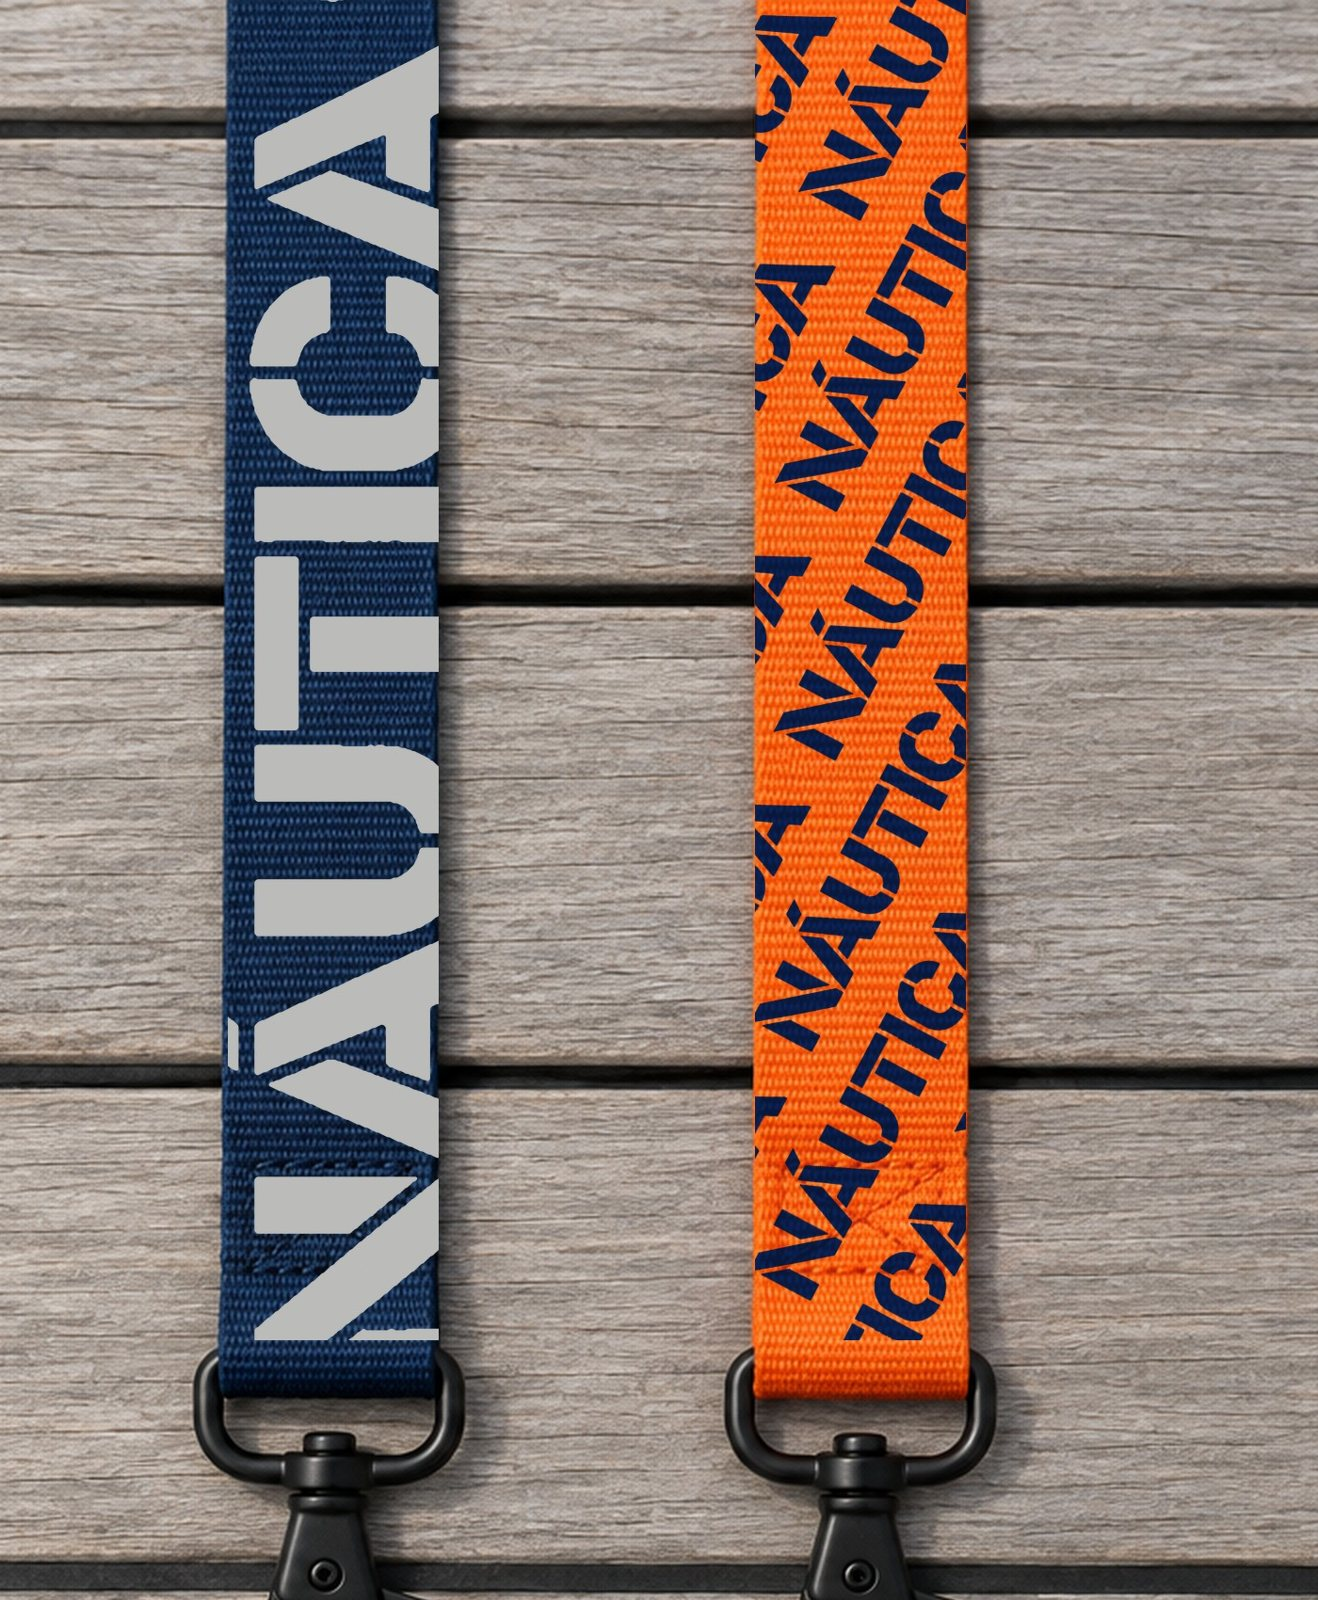
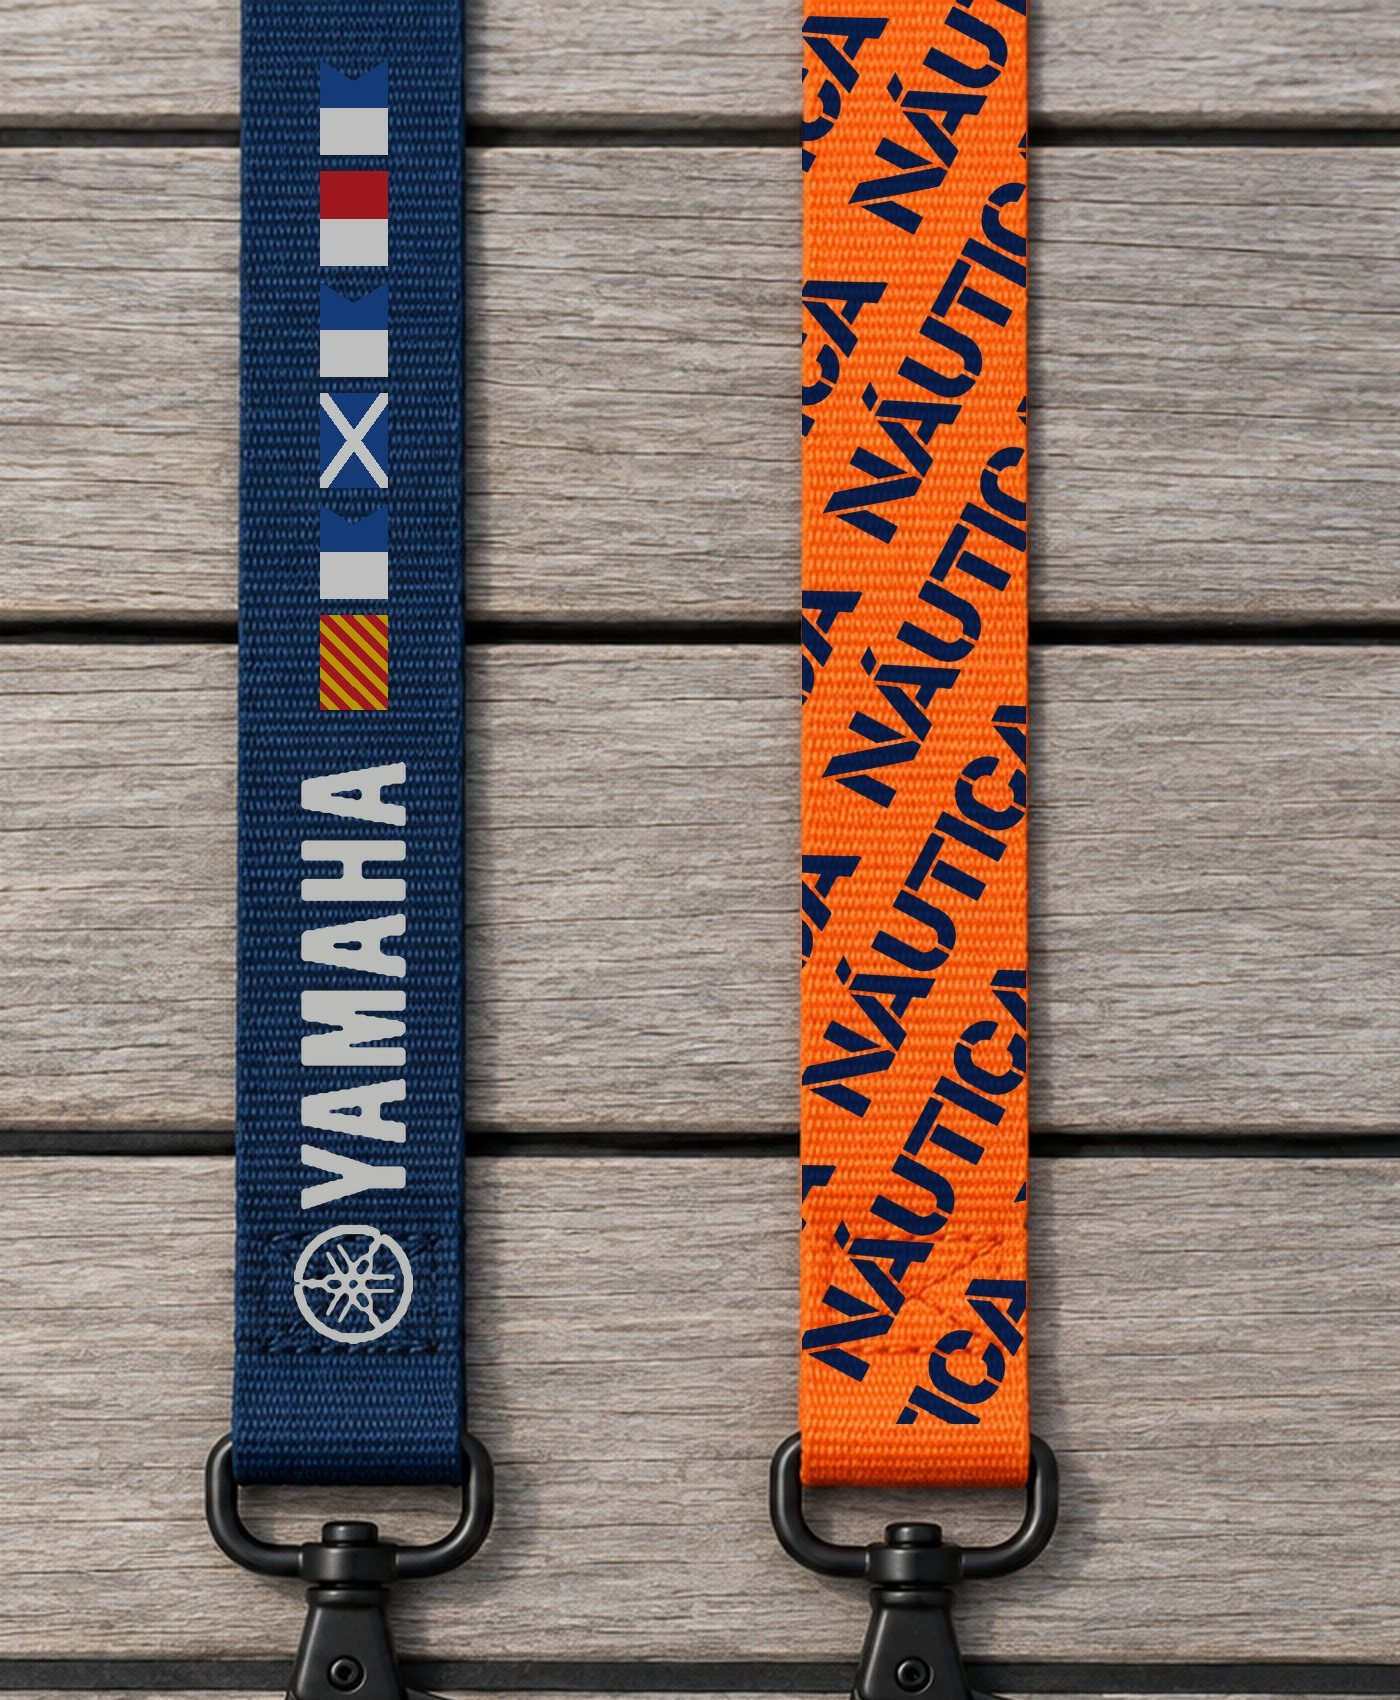
Cordão com Yamaha e bandeiras, kit de bordo nas 3 rotas, animação de abertura corrigida
Claude-Session: https://claude.ai/code/session_011PRs9b8e6bLq3zxXCsKcmh

Changed region(s): [[0.1555, 0.0312, 0.3422, 0.8438]]

diff --git a/index.html b/index.html
@@ -249,7 +249,7 @@ button{font:inherit;cursor:pointer;color:inherit}
 /* ===== rota v2 (Carta Náutica) ===== */
 .rB{background:var(--bg)}
 .rB .hero2{position:relative;background:#05080e;overflow:hidden}
-.rB .hero2 img{display:block;width:100%;height:auto;max-height:calc(100svh - 70px);object-fit:cover}
+.rB .hero2 img{display:block;width:100%;aspect-ratio:16/9;height:auto;max-height:calc(100svh - 70px);object-fit:cover}
 .rB .sc2{display:flex;flex-direction:column;align-items:center;gap:8px;padding:22px 0 0;font-size:12px;font-weight:700;font-stretch:118%;letter-spacing:.14em;text-transform:uppercase;color:var(--mute)}.rB .sc2 i{width:1px;height:40px;background:linear-gradient(var(--org),transparent);animation:drip 1.8s ease-in-out infinite}
 .rB .hero2 .sc{background:rgba(6,18,46,.6);backdrop-filter:blur(8px);padding:10px 16px 8px;border-radius:99px;position:absolute;left:50%;bottom:22px;translate:-50% 0;color:#fff;font-size:12px;font-weight:700;font-stretch:118%;letter-spacing:.14em;display:flex;flex-direction:column;align-items:center;gap:8px;text-shadow:0 2px 10px rgba(0,0,0,.5)}
 .rB .hero2 .sc i{width:1px;height:40px;background:linear-gradient(#fff,transparent);animation:drip 1.8s ease-in-out infinite}
@@ -468,13 +468,16 @@ function voteBox(){const k=KV[i],liked=!!ls.get("nd-like-"+k.id),c=cnt(k.id);
 function bindVote(){const b=$("#vb");if(b)b.onclick=()=>cast(KV[i].id)}
 
 const PCS={b:[{img:"pc-b-credencial.jpg",t:"Credencial",d:"O mar aéreo do KV no topo e o título em stencil, assinatura Yamaha, nome em destaque, bandeiras YAMAHA DAY e faixa laranja por categoria.",sp:[["Formato","PVC 9,5 × 14 cm"],["Categorias","imprensa · convidado · staff"]]},
- {img:"pc-b-cordao.jpg",t:"Cordão dupla face",d:"Duas faces: frente navy com NÁUTICA gigante vazando, verso laranja com NÁUTICA em pattern diagonal. Ao girar no pescoço, o cordão alterna entre elas.",sp:[["Fita","poliéster 25 mm sublimada nas duas faces"],["Ferragem","mosquetão preto fosco"]]},
+ {img:"pc-b-cordao.jpg",t:"Cordão dupla face",d:"Na frente, a assinatura Yamaha e as bandeiras YAMAHA DAY perto do mosquetão. Duas faces: frente navy com NÁUTICA gigante vazando, verso laranja com NÁUTICA em pattern diagonal. Ao girar no pescoço, o cordão alterna entre elas.",sp:[["Fita","poliéster 25 mm sublimada nas duas faces"],["Ferragem","mosquetão preto fosco"]]},
+ {img:"pc-b-kit.jpg",t:"Kit de bordo",d:"O kit completo sobre o deck: sacola, credencial, cordão e cartão de embarque numerado, todos com a mesma assinatura Yamaha e o mesmo lettering da rota.",sp:[["Conteúdo","sacola · credencial · cordão · cartão de embarque"]]},
  {img:"pc-b-sacola.jpg",t:"Sacola do kit",d:"Lona navy com o stencil e as linhas da carta náutica na base, com a assinatura Yamaha, data e local.",sp:[["Técnica","silk + sublimação"],["Base","lona 100% algodão"]]}],
 a:[{img:"pc-a-credencial.jpg",t:"Credencial",d:"Fundo branco com o splash de aquarela do KV, assinatura Yamaha, nome em destaque, bandeiras YAMAHA DAY e faixa laranja por categoria.",sp:[["Formato","PVC 9,5 × 14 cm"],["Categorias","imprensa · convidado · staff"]]},
- {img:"pc-a-cordao.jpg",t:"Cordão dupla face",d:"Duas faces: frente branca com NÁUTICA e a assinatura Yamaha, verso azul com o título em pattern. Ao girar no pescoço, o cordão alterna entre elas.",sp:[["Fita","poliéster 25 mm sublimada nas duas faces"],["Ferragem","mosquetão preto fosco"]]},
+ {img:"pc-a-cordao.jpg",t:"Cordão dupla face",d:"Na frente, a assinatura Yamaha e as bandeiras YAMAHA DAY perto do mosquetão. Duas faces: frente branca com NÁUTICA e a assinatura Yamaha, verso azul com o título em pattern. Ao girar no pescoço, o cordão alterna entre elas.",sp:[["Fita","poliéster 25 mm sublimada nas duas faces"],["Ferragem","mosquetão preto fosco"]]},
+ {img:"pc-a-kit.jpg",t:"Kit de bordo",d:"O kit completo sobre o deck: sacola, credencial, cordão e cartão de embarque numerado, todos com a mesma assinatura Yamaha e o mesmo lettering da rota.",sp:[["Conteúdo","sacola · credencial · cordão · cartão de embarque"]]},
  {img:"pc-a-sacola.jpg",t:"Sacola do kit",d:"Lona crua com o título navy e laranja e a aquarela do mar entrando pela base, com a assinatura Yamaha, data e local.",sp:[["Técnica","silk + sublimação"],["Base","lona 100% algodão"]]}],
 c:[{img:"pc-c-credencial.jpg",t:"Credencial",d:"O mar profundo do KV no topo e as tarjas inclinadas, assinatura Yamaha, nome em destaque, bandeiras YAMAHA DAY e faixa laranja por categoria.",sp:[["Formato","PVC 9,5 × 14 cm"],["Categorias","imprensa · convidado · staff"]]},
- {img:"pc-c-cordao.jpg",t:"Cordão dupla face",d:"Duas faces: frente navy com NÁUTICA em itálico gigante vazando, verso laranja com as listras de largada. Ao girar no pescoço, o cordão alterna entre elas.",sp:[["Fita","poliéster 25 mm sublimada nas duas faces"],["Ferragem","mosquetão preto fosco"]]},
+ {img:"pc-c-cordao.jpg",t:"Cordão dupla face",d:"Na frente, a assinatura Yamaha e as bandeiras YAMAHA DAY perto do mosquetão. Duas faces: frente navy com NÁUTICA em itálico gigante vazando, verso laranja com as listras de largada. Ao girar no pescoço, o cordão alterna entre elas.",sp:[["Fita","poliéster 25 mm sublimada nas duas faces"],["Ferragem","mosquetão preto fosco"]]},
+ {img:"pc-c-kit.jpg",t:"Kit de bordo",d:"O kit completo sobre o deck: sacola, credencial, cordão e cartão de embarque numerado, todos com a mesma assinatura Yamaha e o mesmo lettering da rota.",sp:[["Conteúdo","sacola · credencial · cordão · cartão de embarque"]]},
  {img:"pc-c-sacola.jpg",t:"Sacola do kit",d:"Lona navy com as tarjas e as listras laranja de largada no canto, com a assinatura Yamaha, data e local.",sp:[["Técnica","silk + sublimação"],["Base","lona 100% algodão"]]}]};
 function renderB(keep){const k=KV[i],nx=KV[(i+1)%3];
  sheet.classList.add("rB");
@@ -520,10 +523,10 @@ function openRoute(){const card=cards[i],RMm=matchMedia("(prefers-reduced-motion
  if(!card||RMm){sheet.classList.add("open");document.body.classList.add("lock");return}
  const r=card.getBoundingClientRect();
  sheet.classList.add("instant","open");sheet.style.opacity="0";document.body.classList.add("lock");sheet.scrollTop=0;
- const tg=$("#h2img").getBoundingClientRect();
+ const topH=(sheet.querySelector(".top")||{}).offsetHeight||(innerWidth<600?58:66);const tgH=Math.min(innerWidth*9/16,innerHeight-topH);const tg={left:0,top:topH,width:innerWidth,height:tgH};
  const scrim=document.createElement("div");scrim.className="scrim";document.body.appendChild(scrim);
- const c=document.createElement("img");c.src=KV[i].img;c.className="flipc";
- Object.assign(c.style,{left:tg.left+"px",top:tg.top+"px",width:tg.width+"px",height:tg.height+"px"});document.body.appendChild(c);
+ const c=card.querySelector("img").cloneNode();c.className="flipc";c.removeAttribute("style");
+ Object.assign(c.style,{left:"0px",top:tg.top+"px",width:tg.width+"px",height:tg.height+"px"});document.body.appendChild(c);
  card.style.visibility="hidden";
  const sx=r.width/tg.width,sy=r.height/tg.height,dx=r.left-tg.left,dy=r.top-tg.top;
  const E="cubic-bezier(.76,0,.24,1)";
